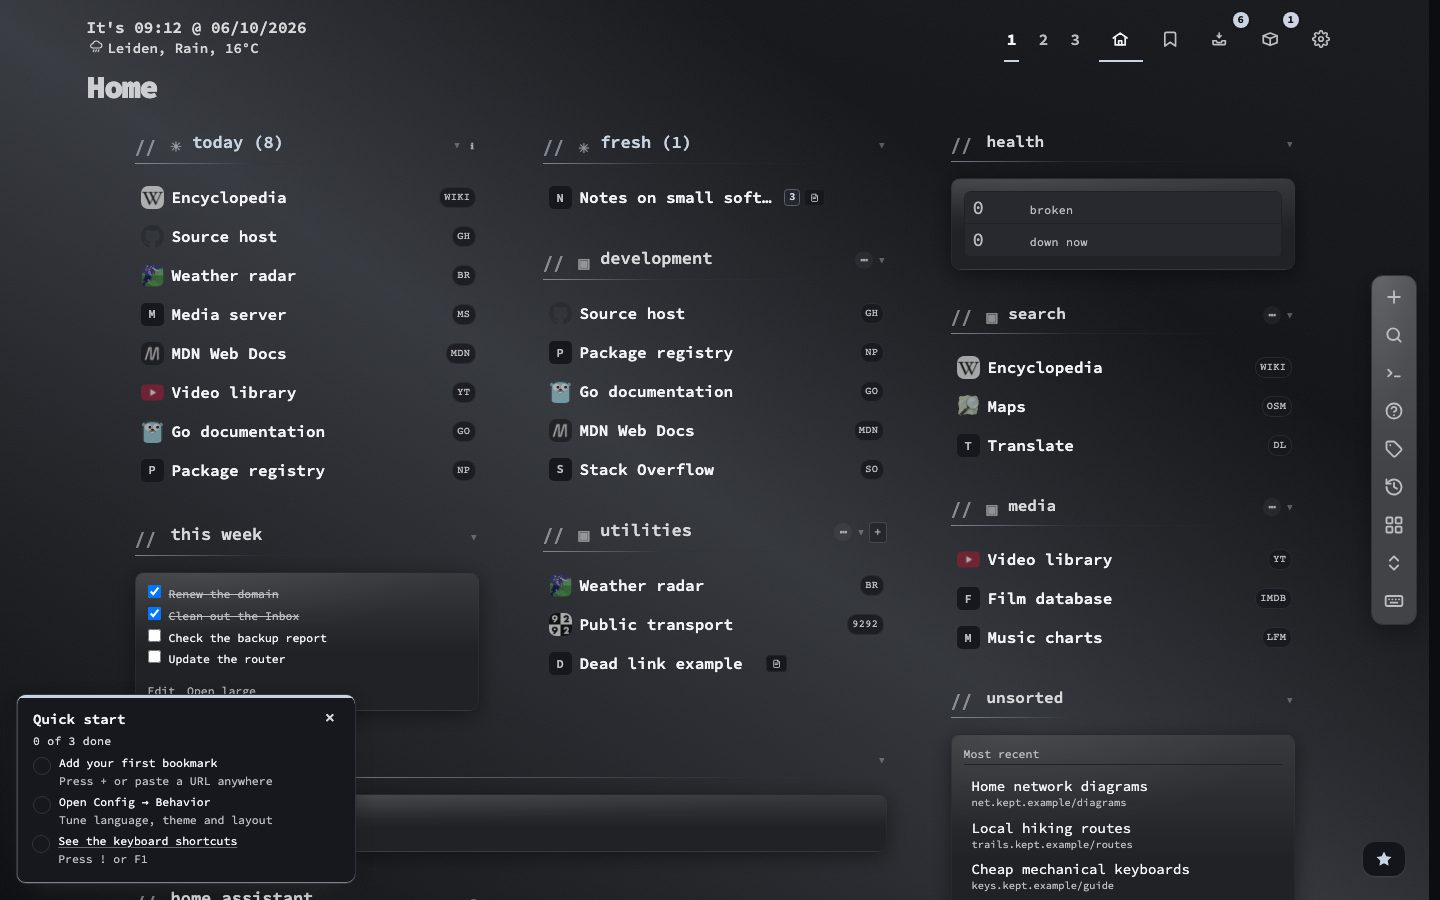
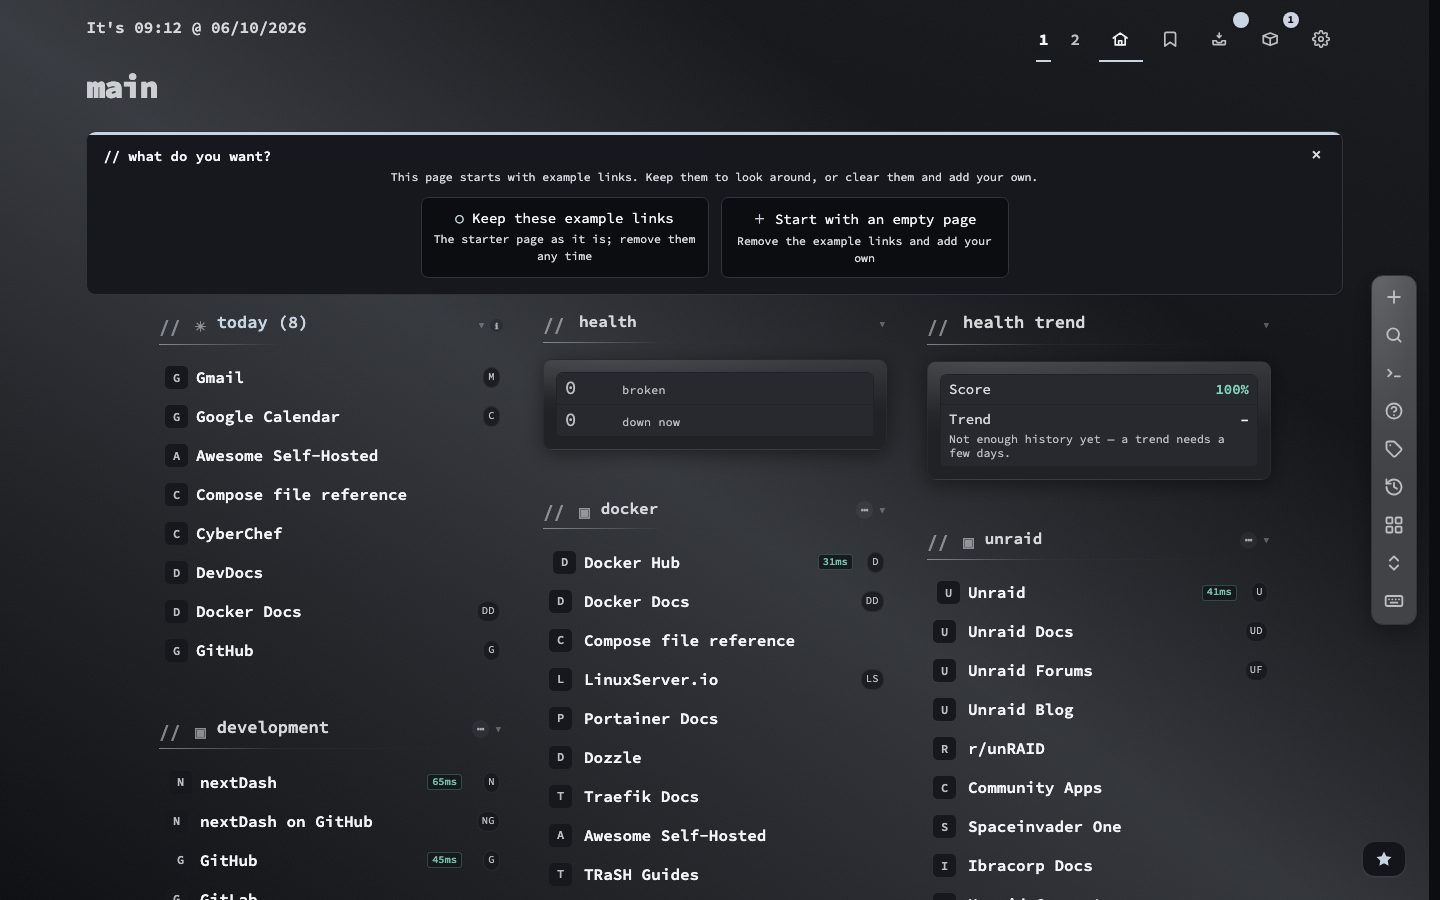
manual: retake the first launch shot on a fresh install

diff --git a/tests/manual-screenshots.spec.js b/tests/manual-screenshots.spec.js
@@ -1103,15 +1103,15 @@ test.describe('phone bookmarks', () => {
  */
 
 test.describe('first launch', () => {
-    // The demo collection, not a bare install's few starter links, with the
-    // quick-start card as a first launch shows it.
-    test.use({ dataPatch: 'quickstart' });
+    // A new install as it really starts: the example links, and the card
+    // that asks whether to keep them.
+    test.use({ dataPatch: 'empty' });
     test('full 02 first launch', async ({ page }) => {
         await prepare(page);
         await page.goto('/');
         await page.waitForFunction(() => window.dashboardInstance?._bookmarksReady === true, null, { timeout: 30_000 });
-        // The quick-start card is the subject; settle() would close it.
-        await page.locator('.quickstart-checklist').waitFor({ state: 'visible' });
+        // The first-start card is the subject; settle() would close it.
+        await page.locator('.first-start-card').waitFor({ state: 'visible' });
         await page.waitForTimeout(1_500);
         await shot(page, '02-first-launch.jpg');
     });

diff --git a/MANUAL.md b/MANUAL.md
@@ -744,7 +744,7 @@ Data is stored in `./data` next to the binary. `NEXTDASH_DATA_DIR` points it els
 <details>
 <summary>📷 Screenshot — a new install on its first launch, full page</summary>
 
-<p align="center"><img src="screenshots/manual.md/02-first-launch.jpg" alt="A new install on its first launch: example bookmarks in Today, Development, Search, Social and Media, a Health widget, and the Quick start card in the bottom-left corner with its three first tasks" width="860"></p>
+<p align="center"><img src="screenshots/manual.md/02-first-launch.jpg" alt="A new install on its first launch: the card at the top of main asks whether to keep the example links or start with an empty page; below it Today, the Health and Health trend widgets, and the Development, Docker and Unraid example links" width="860"></p>
 
 </details>
 
